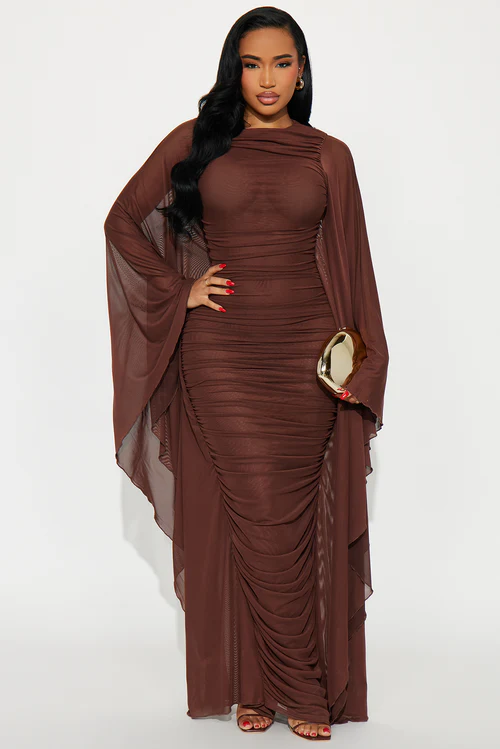
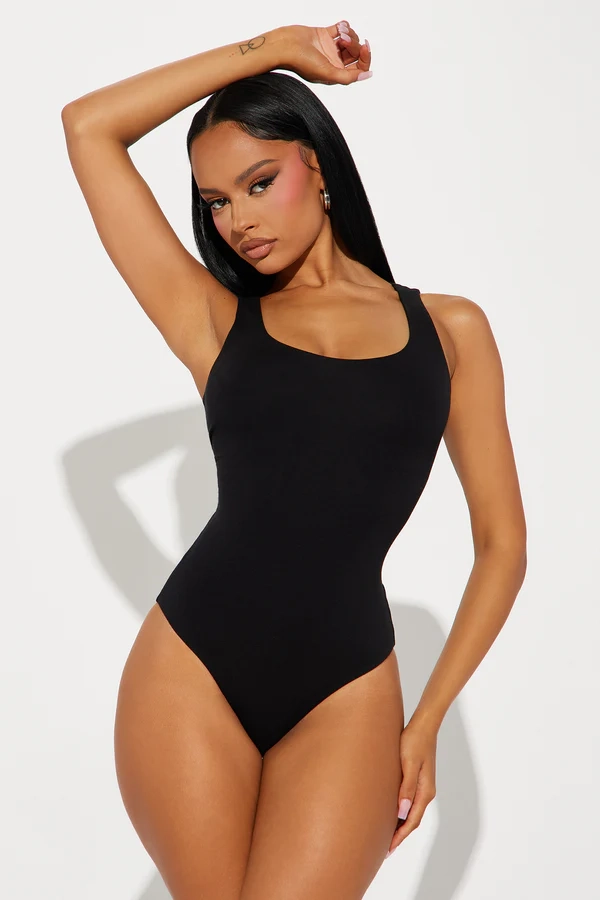
Mise en place des tailles de produit

diff --git a/packages/ui/src/drawer-variable.tsx b/packages/ui/src/drawer-variable.tsx
@@ -177,7 +177,7 @@ const DrawerVariable = ({
 													size: ["S", "M", "L", "XL", "2XL", "3XL"],
 													image: [
 														"/assets/product5.webp",
-														"/assets/product_2.jpg",
+														"/assets/product_2.webp",
 													],
 													quantity: 1,
 												},
@@ -187,7 +187,7 @@ const DrawerVariable = ({
 														code: "#00FF00",
 													},
 													size: ["S", "M", "L"],
-													image: ["/assets/product_2.jpg", "image4.jpg"],
+													image: ["/assets/product_2.webp", "image4.jpg"],
 													quantity: 1,
 												},
 												{
@@ -198,7 +198,7 @@ const DrawerVariable = ({
 													size: ["S", "M", "L", "XL", "2XL", "3XL"],
 													image: [
 														"/assets/product5.webp",
-														"/assets/product_2.jpg",
+														"/assets/product_2.webp",
 													],
 													quantity: 1,
 												},
@@ -208,7 +208,7 @@ const DrawerVariable = ({
 														code: "#00FF00",
 													},
 													size: ["S", "M", "L"],
-													image: ["/assets/product_2.jpg", "image4.jpg"],
+													image: ["/assets/product_2.webp", "image4.jpg"],
 													quantity: 1,
 												},
 												{
@@ -219,7 +219,7 @@ const DrawerVariable = ({
 													size: ["S", "M", "L", "XL", "2XL", "3XL"],
 													image: [
 														"/assets/product5.webp",
-														"/assets/product_2.jpg",
+														"/assets/product_2.webp",
 													],
 													quantity: 1,
 												},
@@ -229,7 +229,7 @@ const DrawerVariable = ({
 														code: "#00FF00",
 													},
 													size: ["S", "M", "L"],
-													image: ["/assets/product_2.jpg", "image4.jpg"],
+													image: ["/assets/product_2.webp", "image4.jpg"],
 													quantity: 1,
 												},
 												{
@@ -238,7 +238,7 @@ const DrawerVariable = ({
 														code: "#00FF00",
 													},
 													size: ["S", "M", "L"],
-													image: ["/assets/product_2.jpg", "image4.jpg"],
+													image: ["/assets/product_2.webp", "image4.jpg"],
 													quantity: 1,
 												},
 												{
@@ -249,7 +249,7 @@ const DrawerVariable = ({
 													size: ["S", "M", "L", "XL", "2XL", "3XL"],
 													image: [
 														"/assets/product5.webp",
-														"/assets/product_2.jpg",
+														"/assets/product_2.webp",
 													],
 													quantity: 1,
 												},
@@ -259,7 +259,7 @@ const DrawerVariable = ({
 														code: "#00FF00",
 													},
 													size: ["S", "M", "L"],
-													image: ["/assets/product_2.jpg", "image4.jpg"],
+													image: ["/assets/product_2.webp", "image4.jpg"],
 													quantity: 1,
 												},
 											]}

diff --git a/packages/ui/src/grid-card-product.tsx b/packages/ui/src/grid-card-product.tsx
@@ -7,7 +7,7 @@ import { StyleBar } from "../../utils/constants";
 import GridBar from "./grid-bars";
 import ToPull from "./to-pull";
 
-const gridVariants = cva(["w-full  "], {
+const gridVariants = cva(["w-full h-fit  "], {
 	variants: {
 		variant: {
 			default: "",
@@ -45,9 +45,9 @@ export const GridCardProduct = ({
 			style: {
 				display: "grid",
 				gridTemplateColumns: "repeat(4, minmax(0, 1fr))",
-				gap: "2rem",
+				gap: "0.5rem",
 				"& > div": {
-					height: "60rem",
+					// height: "60rem",
 				},
 			},
 			active: 4,
@@ -55,7 +55,11 @@ export const GridCardProduct = ({
 	);
 
 	const responsive =
-		"max-md:grid-cols-3  max-md:[&>div]:h-[75rem]   max-md:grid-cols-3  max-sm:grid-cols-2 max-sm:gap-x-2  max-sm:[&>div]:h-[450px] max-xs:[&>div]:h-[400px] max-sm: space-y-45 sm:space-y-58 md:space-y-48 lg:space-y-52  ";
+		"max-md:grid-cols-3 gap-x-[1px]  max-md:grid-cols-3  max-sm:grid-cols-2     ";
+	// "z-0 mb-6 lg:mb-4 grid grid-cols-2 md:grid-cols-3 gap-x-[1px] md:gap-y-8 lg:grid-cols-4 lg:gap-x-2 lg:gap-y-8 3xl:grid-cols-5";
+	// "max-md:grid-cols-3  max-md:[&>div]:h-[75rem]   max-md:grid-cols-3  max-sm:grid-cols-2 max-sm:gap-x-2  max-sm:[&>div]:h-[450px] max-xs:[&>div]:h-[400px] max-sm: space-y-45 sm:space-y-58 md:space-y-48 lg:space-y-52  ";
+
+	// "z-0 mb-6 lg:mb-4 grid grid-cols-2 md:grid-cols-3 gap-x-[1px] md:gap-y-8 lg:grid-cols-4 lg:gap-x-2 lg:gap-y-8 3xl:grid-cols-5";
 
 	const handleChangeStyle = useCallback(
 		(style: Object, index: number) => {
@@ -70,15 +74,15 @@ export const GridCardProduct = ({
 
 	const handleStyles = useCallback(() => {
 		if (styleGrid.active === 3) {
-			return "grid grid-cols-3 gap-x-8 gap-y-8 [&>div]:h-[75rem]";
+			return "grid grid-cols-3 gap-x-8 gap-y-2 ";
 		}
 
 		if (styleGrid.active === 4) {
-			return "grid grid-cols-4 gap-x-8 gap-y-8 [&>div]:h-[60rem]";
+			return "grid grid-cols-4 gap-x-8 gap-y-2";
 		}
 
 		if (styleGrid.active === 5) {
-			return "grid grid-cols-5 gap-x-8 gap-y-8 [&>div]:h-[55rem]";
+			return "grid grid-cols-5 gap-x-8 gap-y-2 ";
 		}
 	}, [styleGrid]);
 
@@ -89,7 +93,7 @@ export const GridCardProduct = ({
 
 	return (
 		<div
-			className={cn(gridVariants(), "text-black   space-y-8 ", className)}
+			className={cn(gridVariants(), "text-black   space-y-4 ", className)}
 			{...props}
 		>
 			{action_grid && (
@@ -110,7 +114,10 @@ export const GridCardProduct = ({
 				</div>
 			)}
 
-			<div className={cn("lg:space-y-52", gridClasses, classGrid, "produit")}>
+			<div
+				className={cn("lg:space-y-10", gridClasses, classGrid, "produit")}
+				style={{}}
+			>
 				{children}
 			</div>
 		</div>

diff --git a/packages/ui/src/card-product.tsx b/packages/ui/src/card-product.tsx
@@ -12,7 +12,7 @@ import { CloseIcon } from "./icons/close.icon";
 import { Heart } from "./icons/heart.icon";
 import Size from "./size";
 
-const cardVariants = cva(["space-y-3 w-[100%] h-full relative"], {
+const cardVariants = cva(["space-y-3 w-[100%] h-fit "], {
 	variants: {
 		variant: {
 			default: "tracking-wide  cursor-pointer",
@@ -155,21 +155,37 @@ export function CardProduct({
 
 	return (
 		<article className={cn(cardVariants(), className)} {...props}>
-			<div
-				className="bg-sky-200 h-[100%] md:hover:[&>div]:opacity-100 flex   justify-center items-center relative"
+			{/* <div
+				className="bg-sky-200 max-md:h-[90%] h-[90%] md:hover:[&>div]:opacity-100 flex   justify-start items-start relative"
 				onClick={() => handleRoutes(link)}
-			>
-				{/* L'affichage d'un produit avec un produits variable */}
+			> */}
+			{/* L'affichage d'un produit avec un produits variable */}
+			<div className="relative bg-amber-300 h-fit ">
 				{variable?.map((variant, i) => (
 					<Image
 						key={i}
 						src={variant.image[0] as string}
 						alt={`Product Image ${i + 1}`}
-						width={800}
-						height={800}
+						width={400}
+						height={400}
+						sizes="
+
+						(max-width: 344px) 100px,
+						(max-width: 375px) 100px,
+						(max-width: 639px) 150px,
+						(max-width: 767px) 200px,
+
+						(max-width: 989px) 250px,
+						(max-width: 1179px) 200px,
+						(max-width: 1366px) 250px,
+						(max-width: 1800px) 400px,
+						(max-width: 2800px) 400px,
+						400px
+
+						"
 						className={cn(
-							"object-cover  w-full h-full absolute inset-0 transition-opacity duration-300",
-							i === activeIndex ? "opacity-100" : "opacity-0"
+							"object-contain w-full h-full  transition-opacity duration-300 ",
+							i === activeIndex ? "opacity-100 " : "hidden opacity-0"
 						)}
 						priority={i === 0}
 						placeholder="blur"
@@ -188,7 +204,7 @@ export function CardProduct({
 						alt="Product Image"
 						width={400}
 						height={400}
-						className="absolute inset-0 object-cover w-full h-full transition-opacity duration-300"
+						className="object-cover w-full h-full transition-opacity duration-300 "
 						priority
 						placeholder="blur"
 						blurDataURL={data_url}

diff --git a/apps/web/src/features/collections/organims/grid-layout.tsx b/apps/web/src/features/collections/organims/grid-layout.tsx
@@ -6,7 +6,7 @@ const GridCollectionLayout = () => {
 		<div className="h-full px-2 rounded-md max-md:w-full md:w-6/6">
 			<GridCardProduct action_grid>
 				<>
-					{Array.from({ length: 15 }).map((_, i) => (
+					{Array.from({ length: 12 }).map((_, i) => (
 						<div key={i} className="w-full aspect-10/9">
 							<CardProduct
 								variable={[
@@ -17,9 +17,9 @@ const GridCollectionLayout = () => {
 										},
 										size: ["S", "M", "L", "XL", "2XL", "3XL"],
 										image: [
-											"/assets/product_2.jpg",
+											"/assets/product_2.webp",
 											"/assets/product5.webp",
-											"/assets/product_2.jpg",
+											"/assets/product_2.webp",
 										],
 										quantity: 1,
 									},
@@ -29,7 +29,7 @@ const GridCollectionLayout = () => {
 											code: "#373B39",
 										},
 										size: ["S", "M", "L"],
-										image: ["/assets/product5.webp", "/assets/product_2.jpg"],
+										image: ["/assets/product5.webp", "/assets/product_2.webp"],
 										quantity: 1,
 									},
 									{
@@ -38,7 +38,7 @@ const GridCollectionLayout = () => {
 											code: "#3C2E69",
 										},
 										size: ["S", "M", "L", "XL", "2XL", "3XL"],
-										image: ["/assets/product5.webp", "/assets/product_2.jpg"],
+										image: ["/assets/product5.webp", "/assets/product_2.webp"],
 										quantity: 1,
 									},
 									{
@@ -48,9 +48,9 @@ const GridCollectionLayout = () => {
 										},
 										size: ["S", "M", "L"],
 										image: [
-											"/assets/product_2.jpg",
+											"/assets/product_2.webp",
 											"/assets/product5.webp",
-											"/assets/product_2.jpg",
+											"/assets/product_2.webp",
 										],
 										quantity: 1,
 									},

diff --git a/apps/web/src/features/collections/organims/filter-layout.tsx b/apps/web/src/features/collections/organims/filter-layout.tsx
@@ -2,10 +2,10 @@ import Filter from "@/features/homepage/molecules/collections/apps/filter";
 import { cn } from "@prettyfull/utils";
 
 const FilterLayout = ({ className }: { className?: string }) => {
-  return (
-    <aside
-      className={cn(
-        `
+	return (
+		<aside
+			className={cn(
+				`
         w-1/5
         h-fit
         max-md:hidden
@@ -18,13 +18,13 @@ const FilterLayout = ({ className }: { className?: string }) => {
         transition-all duration-300
         hover:shadow-md hover:border-black/30
       `,
-        className
-      )}
-    >
-      <h3 className="text-lg font-semibold mb-4 text-gray-800">Filtres</h3>
-      <Filter />
-    </aside>
-  );
+				className
+			)}
+		>
+			<h3 className="mb-4 text-lg font-semibold text-gray-800">Filtres</h3>
+			<Filter />
+		</aside>
+	);
 };
 
 export default FilterLayout;

diff --git a/apps/docs/stories/CardProduct/CardProduct.stories.tsx b/apps/docs/stories/CardProduct/CardProduct.stories.tsx
@@ -14,7 +14,7 @@ const meta: Meta<typeof CardProduct> = {
 		notVariable: {
 			color: { label: "Rouge", code: "#FF0000" },
 			size: ["S", "M", "L"],
-			image: "/assets/product_2.jpg",
+			image: "/assets/product_2.webp",
 			quantity: 1,
 		},
 		smallDescription: "Top polyvalente á Manche",
@@ -78,13 +78,13 @@ export const VariableProduct: Story = {
 			{
 				color: { label: "Rouge", code: "#FF0000" },
 				size: ["S", "M", "L"],
-				image: ["/assets/product_1.jpg", "/assets/product_2.jpg"],
+				image: ["/assets/product_1.jpg", "/assets/product_2.webp"],
 				quantity: 1,
 			},
 			{
 				color: { label: "Vert", code: "#00FF00" },
 				size: ["S", "M", "L"],
-				image: ["/assets/product_2.jpg", "image4.jpg"],
+				image: ["/assets/product_2.webp", "image4.jpg"],
 				quantity: 1,
 			},
 		],

diff --git a/apps/web/src/app/(home)/(shop)/products/[productId]/page.tsx b/apps/web/src/app/(home)/(shop)/products/[productId]/page.tsx
@@ -27,7 +27,7 @@ const productData: ProductTypes = {
 	// 		code: "#FF0000",
 	// 		label: "Rouge",
 	// 	},
-	// 	image: ["/assets/product_1.jpg", "/assets/product_2.jpg"],
+	// 	image: ["/assets/product_1.jpg", "/assets/product_2.webp"],
 	// 	quantity: 1,
 	// 	size: ["S", "M", "2XL"],
 	// },
@@ -39,7 +39,7 @@ const productData: ProductTypes = {
 				code: "#3b82f6",
 			},
 			size: ["S", "M", "L", "3XL"],
-			image: ["/assets/product5.webp", "/assets/product_2.jpg"],
+			image: ["/assets/product5.webp", "/assets/product_2.webp"],
 			quantity: 1,
 		},
 		{
@@ -58,7 +58,7 @@ const productData: ProductTypes = {
 				code: "#ff0000",
 			},
 			size: ["S", "M", "L", "XL", "2XL", "3XL"],
-			image: ["/assets/product_2.jpg"],
+			image: ["/assets/product_2.webp"],
 			quantity: 1,
 		},
 	],

diff --git a/apps/web/src/features/wishlist/components/organims/grid-wishlist.tsx b/apps/web/src/features/wishlist/components/organims/grid-wishlist.tsx
@@ -16,7 +16,7 @@ const GridWishlistLayout = () => {
 											code: "#FF0000",
 										},
 										size: ["S", "M", "L"],
-										image: ["/assets/product5.webp", "/assets/product_2.jpg"],
+										image: ["/assets/product5.webp", "/assets/product_2.webp"],
 										quantity: 1,
 									},
 									{
@@ -25,7 +25,7 @@ const GridWishlistLayout = () => {
 											code: "#00FF00",
 										},
 										size: ["S", "M", "L"],
-										image: ["/assets/product_2.jpg", "image4.jpg"],
+										image: ["/assets/product_2.webp", "image4.jpg"],
 										quantity: 1,
 									},
 								]}

diff --git a/apps/web/src/features/cart/views/index.tsx b/apps/web/src/features/cart/views/index.tsx
@@ -26,7 +26,7 @@ const CartView: FC = () => {
 			color: "White",
 			size: "M",
 			price: 38,
-			image: "/assets/product_2.jpg",
+			image: "/assets/product_2.webp",
 			quantity: 1,
 		},
 	]);

diff --git a/apps/web/src/lib/utils/constants/constants.ts b/apps/web/src/lib/utils/constants/constants.ts
@@ -142,7 +142,7 @@ export const DATA_CARD = [
 		color: "White",
 		size: "M",
 		price: 38,
-		image: "/assets/product_2.jpg",
+		image: "/assets/product_2.webp",
 		quantity: 75,
 	},
 ];
